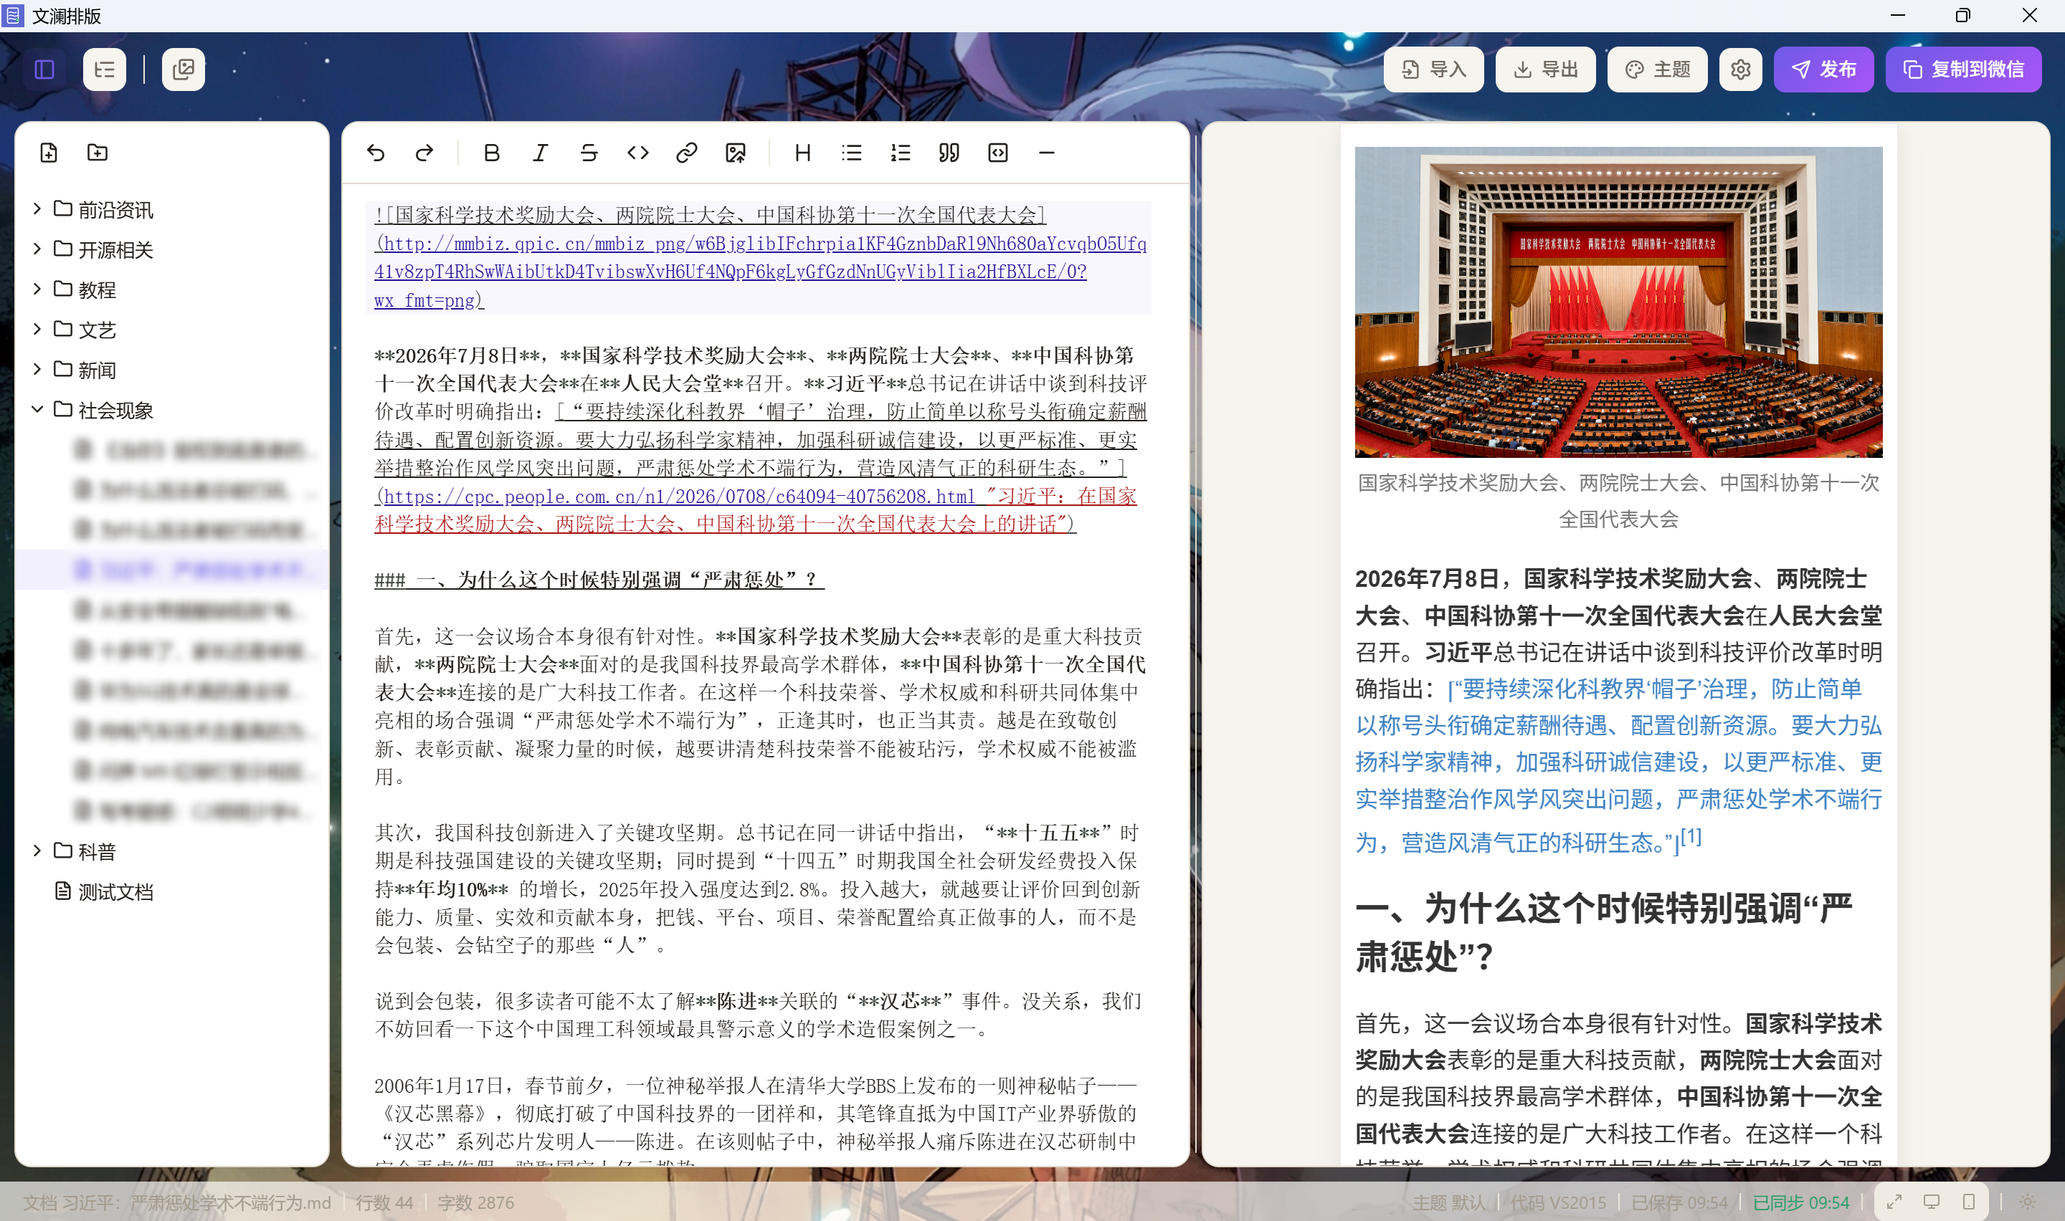
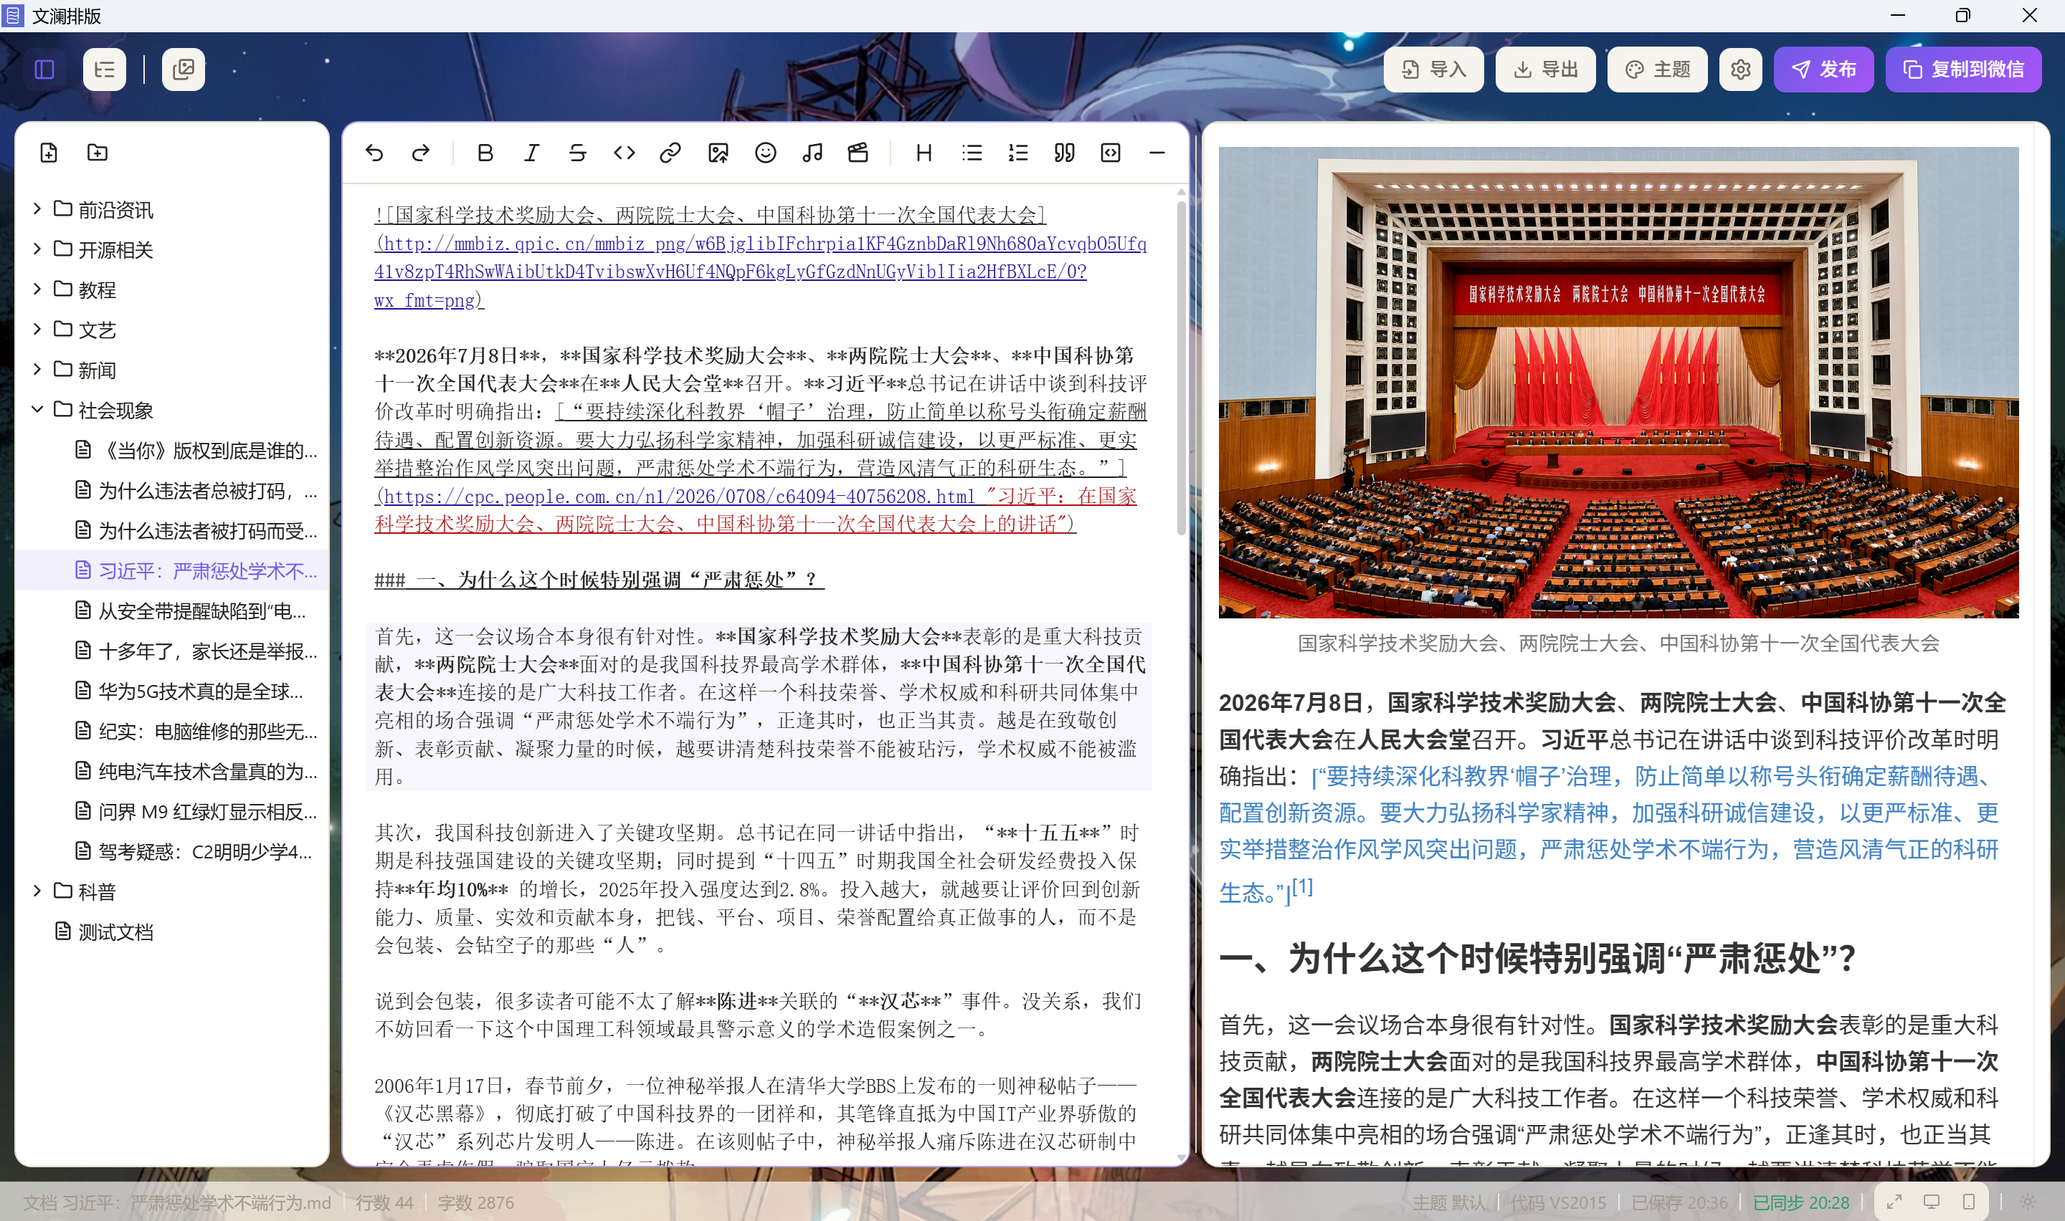
docs: 重写 README——按图片/音频/视频分组功能清单，新增 API/微信登录能力标记，清理未引用素材图片

diff --git a/README.md b/README.md
@@ -22,106 +22,79 @@
 
 ## 一、软件覆盖的功能（跟随提交实时更新）
 
-1. 基本功能：
+> 1. 部分功能使用公众号平台官方API接口，需要配置AppID、AppSecret和IP地址白名单后才能使用。对于该部分功能，后文将使用<img src="assets/API.png" width="30">标记。
+> 2. 部分功能来自逆向微信公众号官方接口，因此需要在软件内扫码登录后才可使用。对于该部分功能，后文将使用<img src="assets/登录_微信登录.png" width="30">标记。
 
-   - 实时编辑与预览：左侧编辑Markdown，右侧根据**选定的主题**实时渲染排版效果。编辑器支持部分常用Markdown语法占位符的快速插入，已经全面支持快捷键，快捷键按照Typora的组合来制作的。
-   - 外观与配色：界面采用暖纸底色与靛紫渐变强调色，可在「设置 → 外观」中切换亮色/暗色模式，并选择文澜紫、珊瑚暖橙、薄荷青绿、海岸蓝四套配色方案；还支持设置自定义背景图（毛玻璃模糊效果）与状态栏透明度。
+- 基本功能：
 
-2. ⭐”发布“功能⭐：
+   - 实时编辑与预览：①支持基本编辑与预览；②支持文章排版主题的切换与实时预览；③支持快捷语法插入，支持快捷键（模拟Typora）。
+   - 外观与配色：①支持亮色/暗色与多套配色方案；②支持设置自定义背景图（毛玻璃模糊效果）与状态栏透明度。
+
+- ⭐”发布“功能⭐：
 
    - 复制到微信：软件将渲染后的html代码写入剪贴板，使得用户在公众号网页端文章编辑区粘贴后能够保留在软件内看到的样式效果。
 
-   - 发布到草稿箱：用户可以直接在软件内，上传封面图，填写标题、作者，调整评论功能后，调用微信公众号草稿箱接口生成将文章放到微信公众号平台的草稿箱，非常方便。
+   - <img src="assets/API.png" width="30">发布到草稿箱：用户可以直接在软件内，上传封面图，填写标题、作者，调整评论功能后，调用微信公众号草稿箱接口生成将文章存档到官方草稿箱。封面图片可以用两种方式确定：
+     - <img src="assets/API.png" width="30">从本地上传，图片会上传到公众号永久素材库，然后返回mediaID关联到封面；
+     - <img src="assets/API.png" width="30">从自己公众号永久素材库中选择。
 
-     封面图片可以用两种方式确定：①从本地上传，图片会上传到公众号永久素材库，然后返回mediaID；②直接用自己公众号永久素材库选择，如果需要用你已经上传过的图片，那么这一种方式将会非常方便。
+- ⭐图片、音频和视频的上传与插入⭐：
 
-     ![复制与发布到公众号](assets/copy-and-publish.png)
+   - 图片
+     - ①<img src="assets/API.png" width="30">快捷键：Ctrl+V粘贴，自动上传到永久素材库并返回对应链接。
+     - ②快捷语法按钮上传：有若干选项
+       - <img src="assets/API.png" width="30">从电脑本地上传图片
+       - <img src="assets/登录_微信登录.png" width="30">手机扫码上传图片：不仅便捷，且速度非常之快
+       - <img src="assets/登录_微信登录.png" width="30">AI生图：调用微信原生**免费** AI 配图能力按提示词生成图片，自动转为永久素材插入；支持对已生成图片二次调整（图生图）与相关图参考。
 
-3. ⭐图床与图片上传⭐：
+     - ③<img src="assets/API.png" width="30">从软件`永久素材库管理`功能窗口选择图片插入，这部分支持单张图片插入，多张图片插入和多选作为轮播图片组插入。
+     - ④<img src="assets/API.png" width="30">导入Markdown文档时，自动解析、上传和插入图片。
 
-   软件目前支持四种图片处理方式，①Ctrl+V粘贴；②通过快捷语法按钮上传本地图片；③通过快捷语法按钮**复用永久素材库的图片**；④导入Markdown文档时，自动解析并处理原始图片。不管是哪一种，最终图片都会经软件调用后端上传服务，上传到自己公众号的永久素材库。
 
-   图片上传后，文章图片的地址会被替换为微信永久素材库的官方链接。此般，解决了图床跑路导致文章图片失效的问题。
+   - 音频：
+     - ①<img src="assets/API.png" width="30">私人音频：从`永久素材库`选择插入我们自己上传的音频，比如一段录音啥的，最大单个1GB。
+     - ②<img src="assets/登录_微信登录.png" width="30">在线音频：逆向微信官方音乐插入接口，输入歌名或歌手即可搜索 QQ 音乐，点击歌曲直接插入官方音乐卡片
+     - <img src="assets/登录_微信登录.png" width="30">上传：对于上传，软件内嵌官方上传页，用户平时在网页如何操作，在软件内就如何操作
+   - 视频：
+     - ①<img src="assets/API.png" width="30">私人视频：从`永久素材库`选择插入我们自己上传的视频，最大单个1GB。
+     - ②<img src="assets/登录_微信登录.png" width="30">在线视频：逆向微信官方视频号视频插入接口，支持搜索并选择视频号视频，以官方卡片形式插入文章，横竖版比例、封面与选中态均按官方草稿结构输出。
+     - <img src="assets/登录_微信登录.png" width="30">上传：对于上传，软件内嵌官方上传页，用户平时在网页如何操作，在软件内就如何操作
 
-   - 手机传图：手机扫码即可上传图片，软件自动轮询确认后插入正文，无需电脑端登录公众号后台。
-   - AI 配图：调用微信原生 AI 配图能力按提示词生成图片，自动转为永久素材插入；支持对已生成图片二次调整（图生图）与相关图参考。
-   - 表情插入：内置微信经典微表情（按官方 20×20 行内尺寸插入），并支持表情搜索——插入时自动转换为永久图片链接。
+- ⭐表情管理⭐
 
-4. ⭐文章管理与云同步⭐：
+   - 微信经典微表情：按官方 20×20 行内尺寸插入，作为图片插入
 
-   - 文章管理：在本地用户目录，针对本软件会创建一个目录用于存档用户的文章。如下图左图所示，文章是树形管理的，也就是说你可以像在使用windows文件管理一样在软件内`新建`、`重命名`、`删除`、`拖动文件及文件夹`：鼠标悬停任一文件夹时，其右侧会浮现「新建文档」「新建文件夹」两个按钮，点击即可在该文件夹内新建；选中文件或文件夹后按 F2 键即可像 Windows 一样快速重命名。也可以通过`右键菜单在系统文件管理器中打开文件位置`或者 直接复制`绝对路径`。删除非空的文件夹前会提示将被递归删除的项目（文件/文件夹）数量，降低误操作的风险。文档侧栏宽度可以自由拖动调整；打开深层文档时，软件会自动展开其所在目录。
+      ![](assets/image-20260807211732046.png)
 
-      <img src="assets/documents-and-sync.png" alt="多文档管理与文件同步" style="zoom:50%;" />  
+   - <img src="assets/登录_微信登录.png" width="30">搜索表情插入：跟手机上微信聊天时候搜索使用同一个表情库，作为图片插入
 
-   - 云同步：为了满足多设备的使用，软件使用坚果云免费的 WebDAV服务，把文件管理目录下的文件树同步到云端目录。在另一台设备上安装本软件后，配置好坚果云账号信息，即可恢复A设备的所有文章。为了避免频繁触发同步导致上游限流，本工具的上传自动触发周期为3分钟，如果需要立即上传，可以按住Ctrl+S。
+- ⭐文章管理与云同步⭐：
 
-   - 本地优先：文章编辑和保存不依赖于网络，云同步在本地保存完成后于后台异步执行，不会因为网络波动阻塞正常编辑。
+   - 文章管理：①树形管理文章，操作与在windows操作无二，支持`新建`、`重命名`、`删除(删除有提醒)`、`拖动文件及文件夹`、`F2重命名`、`右键可选择复制绝对路径`，以及`右键菜单在系统文件管理器中打开文件位置`；②借鉴VSCode，文件夹悬停浮现`新建文档`、`新建文件夹`两个按钮。③文章默认存储在应用的本地数据目录。
+   - 云同步：支持`坚果云WebDAV`免费同步。为了避免频繁触发同步导致上游限流，本工具的上传自动触发周期为3分钟，如果需要立即上传，可以按住Ctrl+S。
 
-5. ⭐主题系统⭐：
+- ⭐主题系统⭐：
 
-   软件内置了 40+ 的排版主题和 250+ Highlight.js/Base16 的代码主题，支持搜索、分页、收藏和置顶。
-
-   ![主题系统](assets/theme-gallery.png)
-
+   - 内置主题：软件内置了 40+ 的排版主题和 250+ Highlight.js/Base16 的代码主题，支持搜索、分页、收藏和置顶。
    - 自定义主题：主题统一为 **CSS 文件**（`.css`），直接写样式，自动作用到 `#article`；放入主题文件夹后自动与内置主题合并。详见 [用户主题制作指南](docs/用户主题制作指南.md)。
 
-6. ⭐应用自动更新⭐：软件启动的时候会自动检查新版本，也可以在“设置“对话框的"关于"页面中进行手动检查。发现更新后可以查看版本号和更新内容，并在应用内直接下载安装；安装完成后软件会自动重启。这个功能极大提高了用户体验，版本更新无需用户再去下载安装包。
+- ⭐应用自动更新⭐：软件启动的时候会自动检查新版本，也可以在“设置“对话框的"关于"页面中进行手动检查。发现更新后可以查看版本号和更新内容，并在应用内直接下载安装；安装完成后软件会自动重启。
 
-   <img src="assets/image-20260713131820259.png" alt="image-20260713131820259" style="zoom:50%;" />
-
-7. ⭐ 批量 Markdown 导入与资源根目录⭐：
+- ⭐ Markdown文章导入⭐：
 
    - 批量导入：可以一次选择多个 Markdown 文件，并将其导入当前选中的文档目录。
-   - 指定资源目录：有的markdown编辑器对语法进行了扩展，比如Obsidian使用 `![[图片名字]]`这种语法，在自动尝试在子目录查找资源失败后，可以根据指定资源目录进行精准定位，然后解析上传。
+   - 指定资源目录：有的markdown编辑器对语法进行了扩展，比如Obsidian使用 `![[图片名字]]`这种语法，在自动尝试在子目录查找资源失败后，可以根据指定资源目录进行精准定位，然后解析上传<img src="assets/API.png" width="30">。
 
-8. ⭐大图自动压缩⭐：微信永久素材库上传图片限制为 10 × 1024 × 1024 字节（约 10 MiB），本工具支持在图片正式上传前通过内置算法将大于 10 MiB、小于 50 MiB 的图片在秒级时间内压缩到 10 MiB 以内，并尽量保持图片质量。
+- ⭐<img src="assets/API.png" width="30">大图自动压缩⭐：微信永久素材库上传图片限制为 10 × 1024 × 1024 字节（约 10 MiB），本工具支持在图片正式上传前通过内置算法将大于 10 MiB、小于 50 MiB 的图片以秒级速度压缩到 10 MiB 以内，并尽量保持图片质量。
 
-9. ⭐永久素材库管理⭐：有时候可能错误上传了一些图片，亦或者对图片版本有更新，那么旧版本自然作废，于是就有了删除的需求。如果每次都去公众号网页端管理素材库在我看来很是麻烦，于是就把这部分功能集成到工具内了。
+- ⭐<img src="assets/API.png" width="30">永久素材库管理⭐：上传、插入和删除`图片`、`音频`、`视频`。
 
-   如下图所示，该板块现在支持批量选择与删除、批量选择与插入、直接上传图片到素材库而不插入文章，也支持将多选图片一键插入为可左右滑动的横滑图片组。
+- 其他”也许“对你来说实用的小功能：
 
-   素材库现已覆盖图片、视频、音频三类素材：视频选择后以官方播放器插入文章；音频以官方组件插入（带公众号头像封面），支持内嵌微信后台登录窗口静默同步绑定音频 fileid；视频与音频均支持本地预览直接播放，发布后保留官方播放器。
+  - 编辑体验：①自动保存与启动恢复；②编辑器和预览器实现了双向高精度同步滚动；③编辑器支持通过 Ctrl+H 打开中文搜索替换面板，可以查找、逐项替换或全部替换当前文档内容；④编辑器与渲染器的比例可调整，并可以在双击分隔条后恢复55开比例；⑤大纲导航。
 
-   ![](assets/image-20260729104850228.png)
+  - 文档导入与处理：①Markdown文档上传时，所有图片嵌入都将自动统一到`![imgDescription](imgUrl)`这样的Markdown图片插入标准语法；②对图片语法进行轻度扩展，文章上传时，文中图片原始缩放会转换到`![imgDescription](imgUrl =缩放参数)`语法；③支持SVG图像渲染；④支持数学公式渲染；⑤文中`[xxx](xxx)`超链接语法会被渲染为文章尾注；带中文的url粘贴后产生百分号编码（如 `%E2%80%9C…`）的，渲染自动解码还原为中文。⑥支持 PNG 长图、独立 HTML、A4 PDF、Markdown 原文导出；⑦预览区支持“放开展示”“微信桌面端渲染”和“手机端渲染”三种宽度模式，可以在发布前检查文章在桌面端与移动端的实际排版效果；⑧预览区图片，可以拖动四角缩放手柄调整图片缩放比例。
 
-10. 其他”也许“对你来说实用的小功能：
-
-   - 编辑体验
-
-     - 自动保存与启动恢复：编辑内容会自动保存为本地的Markdown 文件，切换文档或关闭窗口前也会主动刷新尚未落盘的内容。软件会记住上次打开的文档，下次启动时自动恢复编辑现场。
-
-     - 同步滚动：编辑器和预览器实现了双向高精度同步滚动。
-
-     - 搜索与替换：编辑器支持通过 Ctrl+H 打开中文搜索替换面板，可以查找、逐项替换或全部替换当前文档内容。
-
-       <img src="assets/image-20260713151014924.png" alt="image-20260713151014924" style="zoom: 67%;" />
-
-     - 比例调整：编辑器与渲染器的比例可调整，并可以在双击分隔条后恢复55开比例。
-
-     - 大纲导航：文档如果有标题语法，即 `# xxx`、 `## xxx`这种，左侧有可折叠导航栏，展开后可依据多级标题形成目录导航，方便长文定位。
-
-   - 文档导入与处理
-
-     - Markdown文档导入：该功能区别于其他的编辑器逻辑——只上传文本，不做后处理，本软件上传过程中会单独处理所有的图片语法，不论你使用的是Obsidian的"**![[]]**"语法，还是`<img src="xxx" alt="xxx">`的html标签语法，最终都会在图片上传后统一到`![imgDescription](imgUrl)`这样的Markdown图片插入标准语法。
-
-       软件为了保留文档在其他编辑器编辑时留下的图片缩放等额外参数，对标准语法进行了轻度扩展，原始缩放会转换到`![imgDescription](imgUrl =缩放参数)`语法。
-
-     - 扩展语法解析支持：①支持Mermaid代码直接渲染为SVG图形，并确保粘贴/发布到草稿箱后能保留SVG图形；②支持标准的 `$行内公式$`和`$$行间公式$$`数学公式渲染；③支持”参考文献“功能，文章如果使用了 `[xxx](url "title")`超链接语法，渲染为 $\lceil \text{xxx}\rfloor ^{[\text{文献序号}]}$这种样式，并自动在文末插入一条 $[\text{文献序号}]\space \text{title：url}$这样的文献；④支持横滑图片组：用尖括号包裹多张图片（`<![图1](url1),![图2](url2)>`）即可渲染为可左右滑动的轮播图组，一次滑动翻一页、松手自动对齐，最多 10 张；也可以在图片素材库中多选图片后一键插入。
-
-     - 脚注链接可读化：文章链接发布到微信后会渲染为文末脚注（微信会过滤外链），脚注中的 URL 会自动做百分号解码——浏览器复制链接时产生的编码中文（如 `%E2%80%9C…`）会还原为中文原文，读者看到的是可读链接而不是一长串乱码。
-     - 文档导出：支持 PNG 长图、独立 HTML、A4 PDF、Markdown 原文导出。
-
-   - 预览体验
-
-     - 多终端预览：预览区支持“放开展示”“微信桌面端渲染”和“手机端渲染”三种宽度模式，可以在发布前检查文章在桌面端与移动端的实际排版效果。
-
-     - 可视化图片缩放：在预览区选中图片后，可以拖动四角缩放手柄调整图片宽度。缩放过程保持原始比例并实时显示宽度百分比，调整的结果会自动写回 Markdown 的图片尺寸扩展语法。
-
-   - 其他
-
-     - 微信接口白名单助手：如下图右边分图，可以在设置中一键获取并复制当前的出口公网 IP，同时跳转到微信开发者平台的 IP 白名单配置页面。软件启动时也会检测出口 IP 是否发生变化，变化后展示新旧 IP 并主动提醒更新白名单，如下图左图所示，减少因为动态公网 IP 导致的接口调用失败。
-
-       ![image-20260713131638646](assets/image-20260713131638646.png)
 
 ## 二、下载与安装
 
